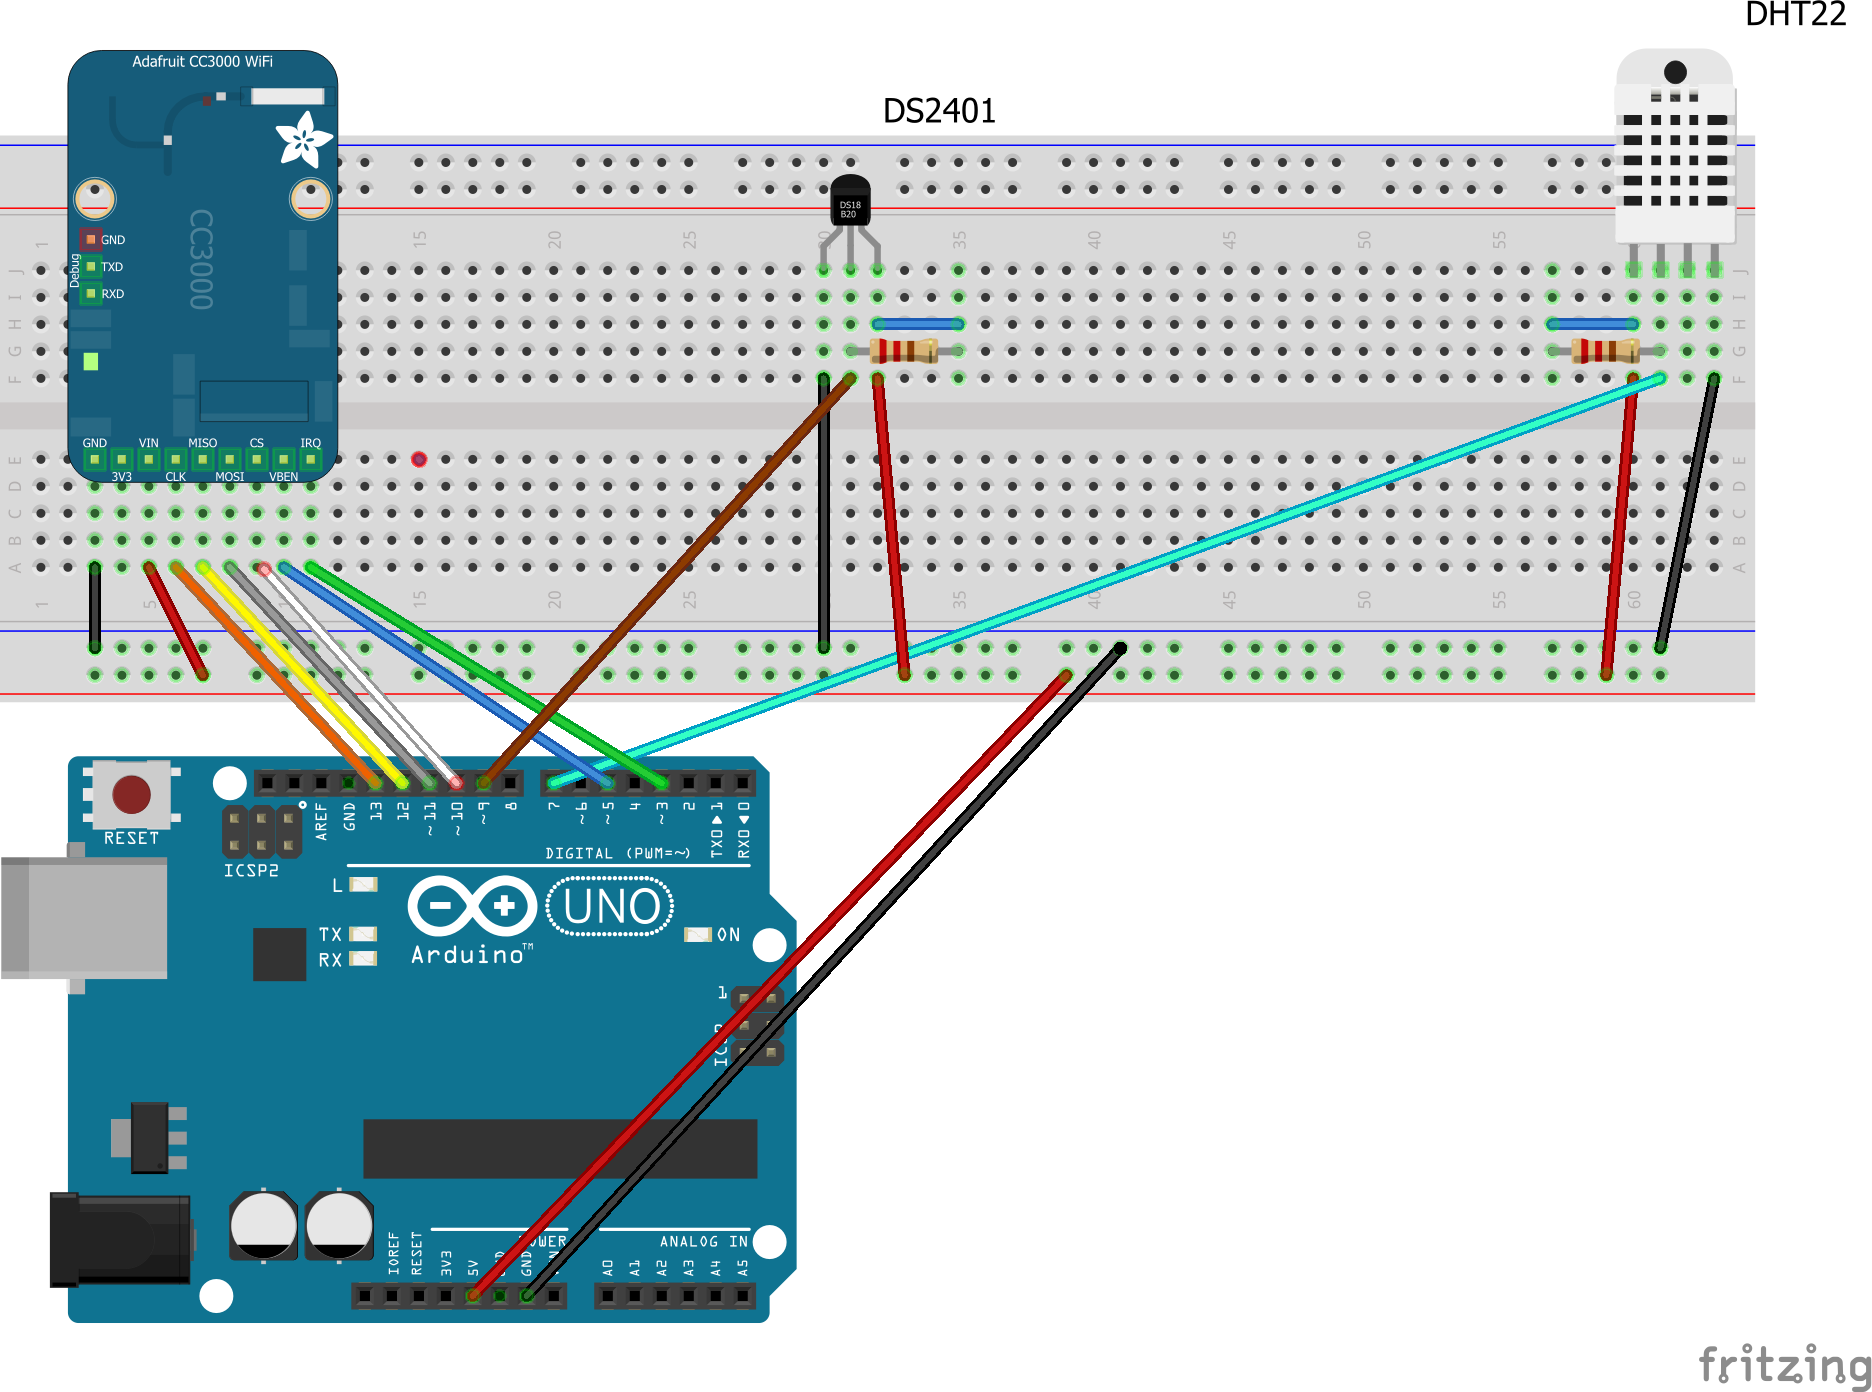
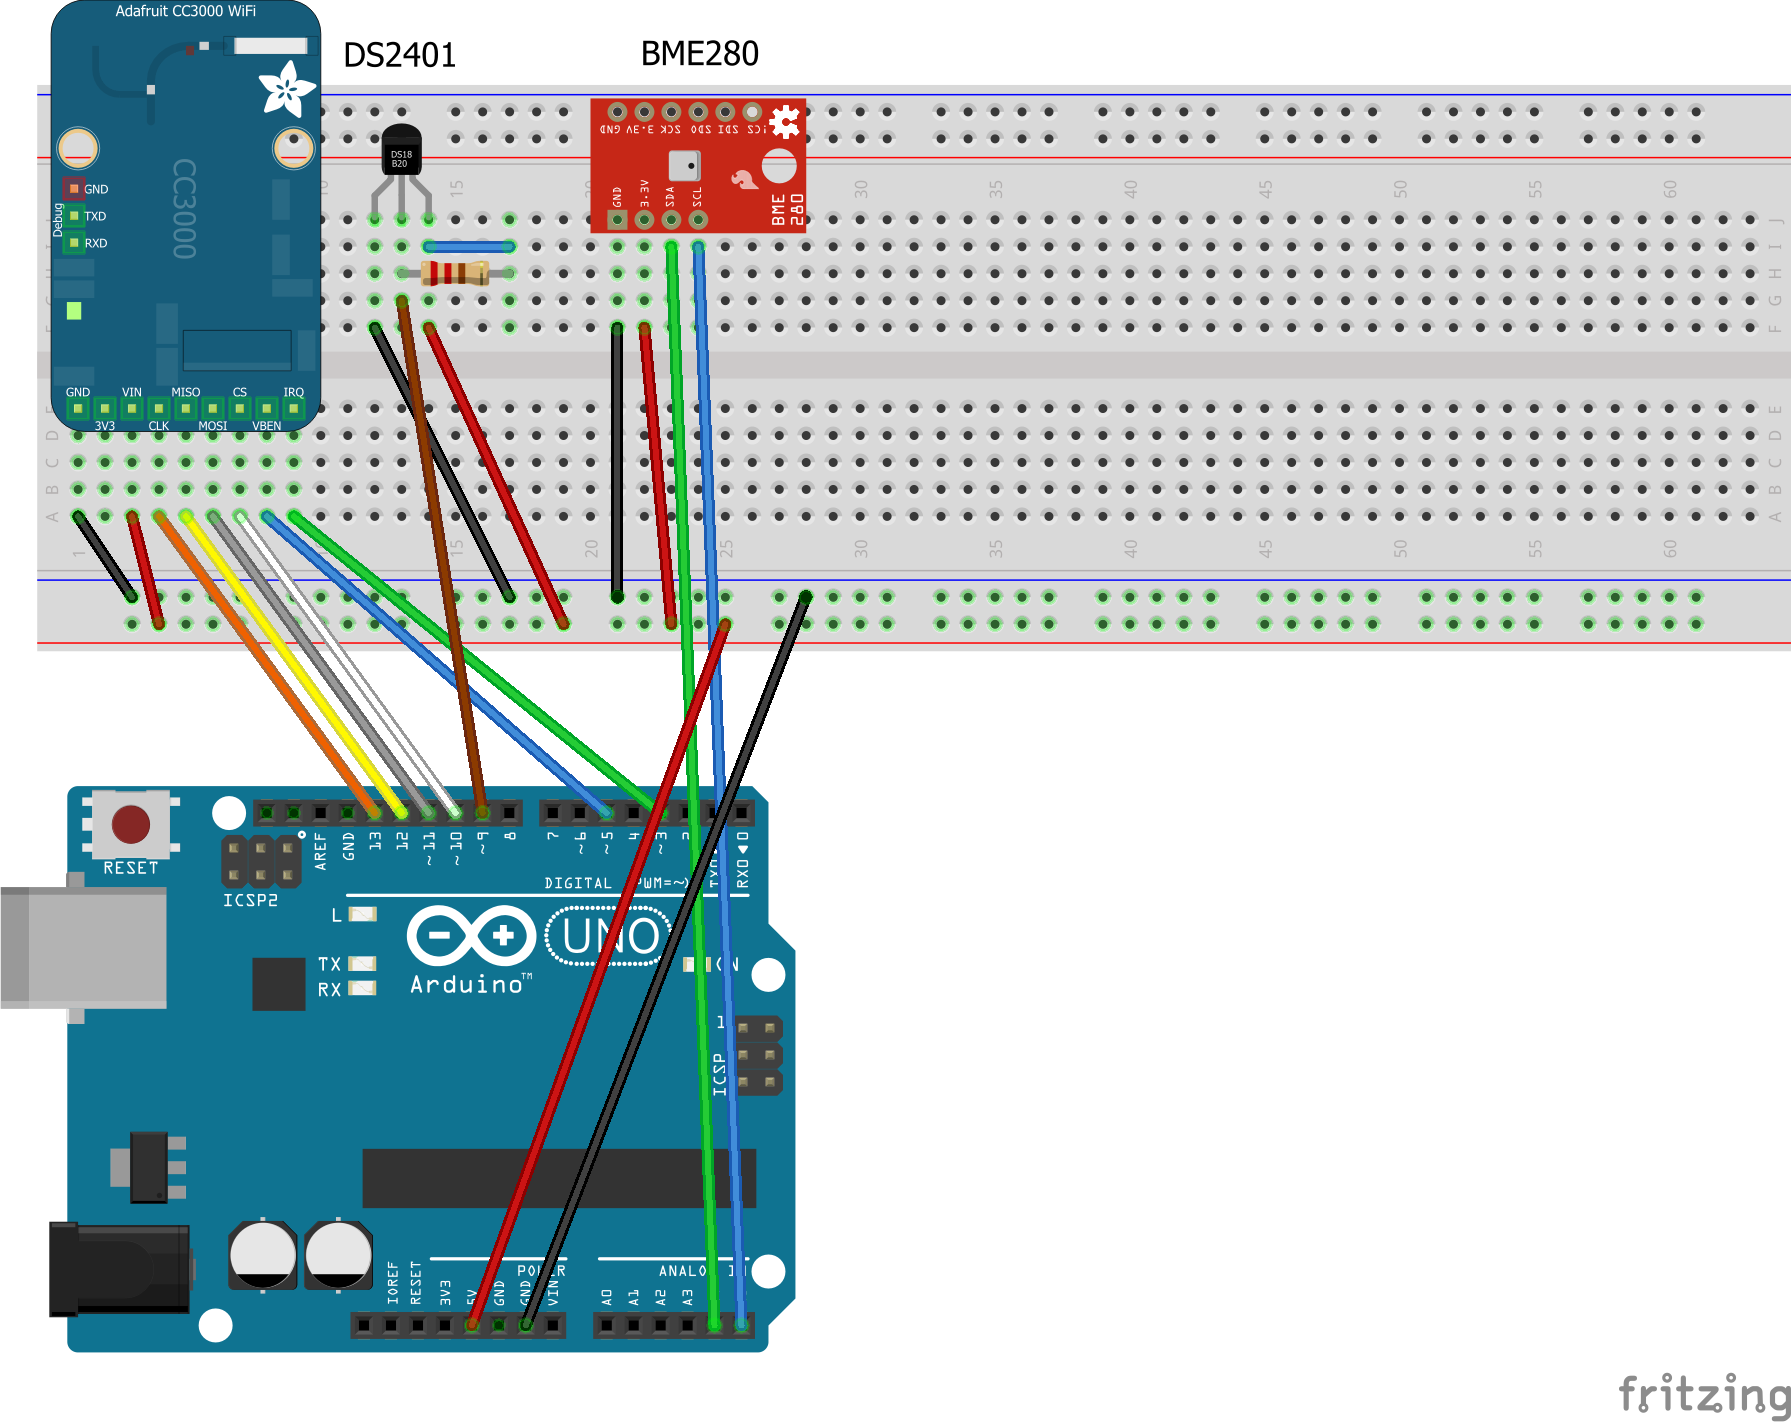
Swapped out BHT22 and BMP180 sensors for one BME280 sensor for the on-board pressure, temperature and humidity readings.

diff --git a/arduino/README.md b/arduino/README.md
@@ -8,7 +8,7 @@ Currently embarassing hacking at simple Arduino and LAMP projects
 
 beestation.ino - contains sketch for listening to a sensor and sending the readings back to a PHP over WiFi
 
-beestation_breadboard.png - Frizing breadboard diagram for the kit
+beestation_breadboard.png - Frizing breadboard diagram for the kit (Note, I am actually using an Adafruit BME280 breakout, not the Sparkfun one shown in the image.
 
 You must create your own MyCommon/mynetwork.h file that defines your own network secrets in your Arduino libraries folder. This must contain these macros, with the dummy values replaced with your own.
 ```C++
@@ -28,12 +28,15 @@ https://learn.adafruit.com/wifi-weather-station-arduino-cc3000/introduction
 
 ##Sensors:
 * DHT22 - Temperature and Humidity. This will be measured outside the hive
-* BMP180 - Pressure and Temperature. This will be measured outside the hive
+* BMP280 - Pressure, Humidity and Temperature. This will be measured outside the hive, at the board.
 * DS2401 - Silicon serial number.  Unique ID for this kit. 
 
 ##To do:
 * Add DS18B20 temperature sensors, in beeproof sleeves, to measure inside the hive
 * Build hive sound volume level meter, in beeproof sleeve
+* Harden wireless code
+* Harden watchdog code
+* Consider hardware reset on hang
 
 -Tom Willis
 
